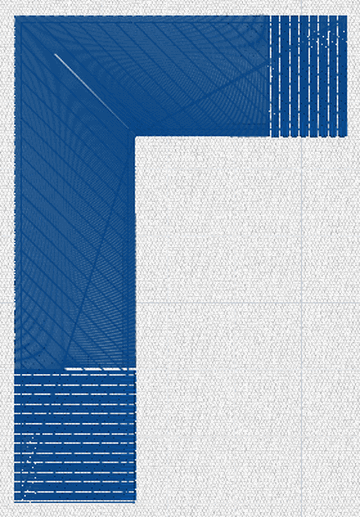
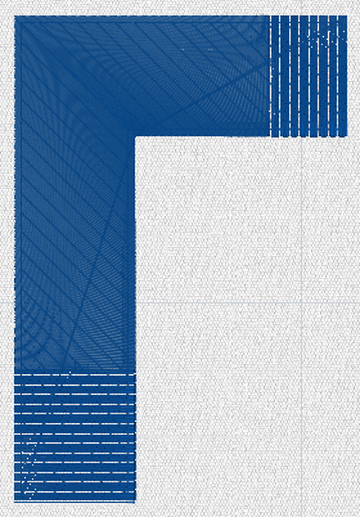
Angle-line rows reach the next line evenly on the inside of a bend (#890) (#898)
* Angle-line rows reach the next line evenly on the inside of a bend (#890)

A band's row count is rounded up to a multiple of the coarsest thinning its
shorter side needs, so the kept rows end on the next chord as evenly as they
leave the last one. An odd count left the last kept row three steps short of
the corner diagonal on the kit L, a thin streak along it.

Design test: the kit L at its set density has no thin 1 mm cell, even gaps
across both arms, and no gap over twice the median across the corner chord.
fills/angle-lines.pes regenerated (4,583 -> 4,631 stitches, 1 trim).

* Angle-lines preview rendered with the fixed app (#890)

The kit renders previews with the openstitch app, which was stale when the
PES was regenerated; the corner diagonal is gone from the new preview.

---------

diff --git a/crates/openstitch-design/src/stitch_type_tests.rs b/crates/openstitch-design/src/stitch_type_tests.rs
@@ -4840,3 +4840,132 @@ fn tartan_rows_lie_in_their_colours_stripes_and_share_out_every_row() {
             .contains("tartan")
     );
 }
+
+/// The kit's L (#890): 7..57 × 7..80 mm with lines across its top arm, its corner and its foot.
+fn kit_l() -> (Vec<Contour>, Vec<[Vec2; 2]>) {
+    let p = |x: f64, y: f64| v2(x * 10.0, y * 10.0);
+    let c = vec![Contour::new(
+        vec![
+            p(7.0, 7.0),
+            p(57.0, 7.0),
+            p(57.0, 25.0),
+            p(25.0, 25.0),
+            p(25.0, 80.0),
+            p(7.0, 80.0),
+        ],
+        true,
+    )];
+    let lines = vec![
+        [p(45.0, 5.0), p(45.0, 27.0)],
+        [p(27.0, 27.0), p(5.0, 5.0)],
+        [p(5.0, 60.0), p(27.0, 60.0)],
+    ];
+    (c, lines)
+}
+
+/// The 1 mm cells (a cell or more inside the outline) whose top stitching is thinner than half
+/// what rows `spacing` apart lay there, by the length of stitching in each cell.
+fn thin_cells(c: &[Contour], top: &[Run], spacing: f64) -> Vec<(i64, i64)> {
+    let mut ink: std::collections::HashMap<(i64, i64), f64> = Default::default();
+    for run in top {
+        for w in run.windows(2) {
+            let n = (w[0].distance(w[1]) / 0.5).ceil().max(1.0) as usize;
+            for i in 0..n {
+                let q = w[0].lerp(w[1], (i as f64 + 0.5) / n as f64);
+                *ink.entry(((q.x / 10.0).floor() as i64, (q.y / 10.0).floor() as i64))
+                    .or_default() += w[0].distance(w[1]) / n as f64;
+            }
+        }
+    }
+    let b =
+        crate::geometry::Rect::enclosing(c.iter().flat_map(Contour::outline_points)).expect("b");
+    let edges: Vec<(Vec2, Vec2)> = c.iter().flat_map(Contour::edges).collect();
+    let mut thin = Vec::new();
+    for j in (b.min_y / 10.0).floor() as i64..(b.max_y / 10.0).ceil() as i64 {
+        for i in (b.min_x / 10.0).floor() as i64..(b.max_x / 10.0).ceil() as i64 {
+            let m = v2(i as f64 * 10.0 + 5.0, j as f64 * 10.0 + 5.0);
+            let clear = edges
+                .iter()
+                .map(|&(a, e)| segment_gap(m, m, a, e))
+                .fold(f64::MAX, f64::min);
+            if !crate::geometry::contains(m, c) || clear < 15.0 {
+                continue;
+            }
+            if ink.get(&(i, j)).copied().unwrap_or(0.0) < 0.5 * 100.0 / spacing {
+                thin.push((i, j));
+            }
+        }
+    }
+    thin
+}
+
+/// Where the top stitching of `top` crosses the probe from `a` to `b`, as distances along it.
+fn crossings_along(top: &[Run], a: Vec2, b: Vec2) -> Vec<f64> {
+    let mut at = Vec::new();
+    let d = b - a;
+    for run in top {
+        for w in run.windows(2) {
+            let e = w[1] - w[0];
+            let den = d.x * e.y - d.y * e.x;
+            if den.abs() < 1e-12 {
+                continue;
+            }
+            let q = w[0] - a;
+            let t = (q.x * e.y - q.y * e.x) / den;
+            let s = (q.x * d.y - q.y * d.x) / den;
+            if (0.0..=1.0).contains(&t) && (0.0..=1.0).contains(&s) {
+                at.push(t * d.length());
+            }
+        }
+    }
+    at.sort_by(f64::total_cmp);
+    at
+}
+
+#[test]
+fn angle_lines_cover_the_kit_l_at_the_set_density() {
+    // #890: the kit's L. Every 1 mm cell carries at least half the stitching rows `spacing`
+    // apart lay there; past the outer lines the rows keep the lines' direction at the set
+    // spacing; and across the corner line, where the rows of both bands are thinned, no gap is
+    // over twice the usual one (an odd row count left the last kept row three steps short of
+    // the line: 3.6 mm/10 against 1.4 there).
+    let (c, lines) = kit_l();
+    let mut r = region(RegionType::Fill);
+    r.angle_lines = lines;
+    let layers = crate::region::layers(&c, &r, &[]);
+    let top = layers.last().expect("top");
+    let spacing = 10.0 / r.density;
+    let thin = thin_cells(&c, top, spacing);
+    assert!(thin.is_empty(), "{} thin 1 mm cells: {thin:?}", thin.len());
+    for (what, a, b) in [
+        ("top arm", v2(460.0, 160.0), v2(560.0, 160.0)),
+        ("foot", v2(160.0, 610.0), v2(160.0, 790.0)),
+    ] {
+        let x = crossings_along(top, a, b);
+        for w in x.windows(2) {
+            let gap = w[1] - w[0];
+            assert!(
+                (gap - spacing).abs() < 0.05 * spacing || gap < 1e-6,
+                "{what}: rows {gap:.2} apart at {:.0} (spacing {spacing:.2})",
+                w[0]
+            );
+        }
+    }
+    for k in 3..=8 {
+        // Square across the corner line, from 30 % to 80 % of the way to the inner corner.
+        let m = v2(70.0, 70.0).lerp(v2(250.0, 250.0), f64::from(k) / 10.0);
+        let x = crossings_along(top, m + v2(-40.0, 40.0), m + v2(40.0, -40.0));
+        let mut gaps: Vec<f64> = x
+            .windows(2)
+            .map(|w| w[1] - w[0])
+            .filter(|&g| g > 1e-6)
+            .collect();
+        let most = gaps.iter().copied().fold(0.0, f64::max);
+        gaps.sort_by(f64::total_cmp);
+        let median = gaps[gaps.len() / 2];
+        assert!(
+            most <= 2.0 * median,
+            "{k}: a {most:.1} gap, the median {median:.1}"
+        );
+    }
+}

diff --git a/crates/openstitch-design/src/angle_lines.rs b/crates/openstitch-design/src/angle_lines.rs
@@ -9,7 +9,9 @@
 //!   fraction t along the other, so the rows turn with the shape and stay inside it. There are
 //!   as many rows as the longer side needs at the row spacing; where the shorter side (the
 //!   inside of a bend) crowds them, rows are left out in pairs (every other one, then every
-//!   fourth…) so they stay at least 0.85 of a spacing apart.
+//!   fourth…) so they stay at least 0.85 of a spacing apart. The row count is rounded up to a
+//!   multiple of that thinning, so the kept rows reach the next chord as evenly as they leave
+//!   this one.
 //! - Before the first chord and after the last, rows run parallel to it, a spacing apart.
 //! - A shape with a hole and three or more lines (a ring) wraps from the last line to the first.
 //!
@@ -362,9 +364,24 @@ fn pieces(p: impl Fn(f64) -> Vec2, keep: impl Fn(f64) -> bool) -> Vec<Run> {
     out
 }
 
+/// How many row steps a band whose sides are `l0` and `l1` long is laid in: as many as the
+/// longer side needs at `spacing`, rounded up to a multiple of the coarsest thinning ([`kept`])
+/// its shorter side needs, so every thinning ends on the next band's first row as evenly as it
+/// starts (#890: an odd count left the last kept row three steps short of the next line where
+/// the rows were thinned to every other one, a thin streak along it).
+fn steps(l0: f64, l1: f64, spacing: f64) -> usize {
+    let n = ((l0.max(l1) / spacing).ceil() as usize).max(1);
+    let gap = l0.min(l1) / n as f64;
+    let mut step = 1usize;
+    while gap * (step as f64) < CROWDED * spacing && step * 2 <= n / 2 {
+        step *= 2;
+    }
+    n.div_ceil(step) * step
+}
+
 /// The rows between two sides: row t joins `s1.at(t)` and `s2.at(t)`.
 fn band(s1: &Side, s2: &Side, spacing: f64, last: bool) -> Vec<Run> {
-    let n = ((s1.len.max(s2.len) / spacing).ceil() as usize).max(1);
+    let n = steps(s1.len, s2.len, spacing);
     let mut out = Vec::new();
     for k in 0..n + usize::from(last) {
         let t = k as f64 / n as f64;
@@ -380,7 +397,7 @@ fn band(s1: &Side, s2: &Side, spacing: f64, last: bool) -> Vec<Run> {
 /// The rows between chords `a` and `b` by straight interpolation (ends on different outlines).
 fn straight(a: [Vec2; 2], b: [Vec2; 2], spacing: f64, last: bool) -> Vec<Run> {
     let (l0, l1) = (a[0].distance(b[0]), a[1].distance(b[1]));
-    let n = ((l0.max(l1) / spacing).ceil() as usize).max(1);
+    let n = steps(l0, l1, spacing);
     let mut out = Vec::new();
     for k in 0..n + usize::from(last) {
         let t = k as f64 / n as f64;

diff --git a/docs/FEATURE_MATRIX.md b/docs/FEATURE_MATRIX.md
@@ -299,7 +299,7 @@ PE-DESIGN reference, sew-out) is generated from the compatibility report into
 | Beyond PE-DESIGN | Maze fill (#533), region type `maze`: one closed path that never crosses itself, long straight corridors with square turns, its passes the spacing apart (default 2 mm, 1-20) and reaching to about half a spacing from the outline and the holes; the stippling walk (a seeded spanning tree of 2-spacing cells walked at half a cell, partial cells along the outline taken in by detours) with the tree biased to run straight on (`straightness`, default 70 %) and its own `mazeSeed` (default 533), sewn at the run pitch without rounding; one run per connected part, started at the point nearest the start point; Stippling's output unchanged; PES 0110 refuses it (version 6 writes the stitches); inspector Spacing, Run pitch, Straightness, Seed; kit swatch `examples/sew/fills/maze-fill.pes` | Implemented (beyond PE-DESIGN) | [research/beyond/meander-maze-and-randomisation.md](research/beyond/meander-maze-and-randomisation.md) §2; [research/competitive-features.md](research/competitive-features.md) Updates, 2026-11-05 full survey (filum (GPL-3.0); concepts only) | design `stitch_type_tests::maze_fill_*`, engine `stitch_types::maze_fill_goes_through_the_command`, app `coverage_editor::maze_fill_controls_reach_the_engine` |
 | Beyond PE-DESIGN | Meander fill (#533), region type `meander`: a meander tile chained into rows a tile height apart (shifted by its row shift), clipped to the region and its holes, the pieces sewn nearest next and joined along the outline; 12 own-drawn tiles (`vermicelli` the default, `ribbon-candy`, `ripple`, `clamshell`, `switchback`, `serpentine`, `skyline`, `staircase`, `sawtooth`, `jigsaw`, `hilbert`, `hilbert-fine`; drawn from simple maths by `tools/gen_patterns.py`, none from another product), pattern kind `meander` (one path from (0, y) to (1, y) in the unit tile; a tile that crosses or touches itself, its neighbours or the rows above and below is refused, at most 500 points), so the Programmable Stitch Creator (Meander fill (+)) and `pattern.define` make more; tile size (default 8 mm) and run pitch; PES 0110 refuses it (version 6 writes the stitches); kit swatches `examples/sew/fills/meander-tiles-1.pes` and `-2.pes` show every tile | Implemented (beyond PE-DESIGN) | [research/beyond/meander-maze-and-randomisation.md](research/beyond/meander-maze-and-randomisation.md) §3; [research/competitive-features.md](research/competitive-features.md) Updates, 2026-11-05 full survey (filum (GPL-3.0), Morale (GPL-3.0), openhoop (GPL-3.0); concepts only, Ink/Stitch's GPL tiles not used) | design `stitch_type_tests::meander_*`, engine `stitch_types::meander_fill_goes_through_the_command`, app `coverage_editor::meander_fill_controls_reach_the_engine` |
 | Region sew types | Fill Angle tool (#534), Color / Sew Type ▸ Fill Angle (PE-DESIGN's straight sewing direction set on the canvas): drag (or click twice, or the arrow keys and Space) across the selected regions in the direction their rows should run; on release every selected region that has a direction (not the centred types, contour fill or cross stitch) takes that angle with Auto direction off, in one undo step (`object.setRegion` `angle`); Shift: 15° steps; stays active, Esc leaves; `ui.run` action `fillAngleTool`; icon generated with Higgsfield | Implemented | [research/competitive-features.md](research/competitive-features.md) Updates, 2026-11-05 full survey (Roidery (Apache-2.0), openhoop (GPL-3.0), filum (GPL-3.0); concepts only) | app `editor::tools::fill_angle::tests` |
-| Beyond PE-DESIGN | Stitch angle lines (#534): `object.setAngleLines {id, lines}` (2-64 lines across a fill, in order along it, mm; `[]` or `object.setRegion angleLines: false` removes them). Each line is taken as the shape's chord through it; between consecutive chords row t joins the points at fraction t along the two outline sides between them, so a U, Z or bend turns with its shape in one object; as many rows as the longer side needs, rows left out in pairs where the inner side crowds them (never under 0.85 of a spacing); rows parallel to the first and last lines beyond them; a ring (a hole and 3 or more lines) wraps round. The plain fill's under sewing is kept. Lines crossing inside the shape, or whose middle is outside it, are refused with the reason. Inspector Angle lines (+) shows them (off removes them); PES 0110 refuses them; kit swatch `examples/sew/fills/angle-lines.pes`. On the canvas: the Angle Lines tool (Shapes ▸ Edit Outline; `ui.run` action `angleLineTool`) adds a line per drag (or two clicks, or the arrow keys and Space) to the selected fill, the first waiting for the second, one undo step each; Shift: 15° steps; icon generated with Higgsfield | Implemented (beyond PE-DESIGN) | [research/competitive-features.md](research/competitive-features.md) Updates, 2026-11-05 full survey (Roidery (Apache-2.0), openhoop (GPL-3.0), filum (GPL-3.0); concepts only) | design `stitch_type_tests::angle_lines_*`, engine `stitch_types::angle_lines_go_through_the_command`, app `coverage_editor::angle_lines_toggle_reaches_the_engine`, `editor::tools::angle_line::tests` |
+| Beyond PE-DESIGN | Stitch angle lines (#534): `object.setAngleLines {id, lines}` (2-64 lines across a fill, in order along it, mm; `[]` or `object.setRegion angleLines: false` removes them). Each line is taken as the shape's chord through it; between consecutive chords row t joins the points at fraction t along the two outline sides between them, so a U, Z or bend turns with its shape in one object; as many rows as the longer side needs, rows left out in pairs where the inner side crowds them (never under 0.85 of a spacing), each band's row count a multiple of its coarsest thinning so the kept rows reach the next line evenly (#890); rows parallel to the first and last lines beyond them; a ring (a hole and 3 or more lines) wraps round. The plain fill's under sewing is kept. Lines crossing inside the shape, or whose middle is outside it, are refused with the reason. Inspector Angle lines (+) shows them (off removes them); PES 0110 refuses them; kit swatch `examples/sew/fills/angle-lines.pes`. On the canvas: the Angle Lines tool (Shapes ▸ Edit Outline; `ui.run` action `angleLineTool`) adds a line per drag (or two clicks, or the arrow keys and Space) to the selected fill, the first waiting for the second, one undo step each; Shift: 15° steps; icon generated with Higgsfield | Implemented (beyond PE-DESIGN) | [research/competitive-features.md](research/competitive-features.md) Updates, 2026-11-05 full survey (Roidery (Apache-2.0), openhoop (GPL-3.0), filum (GPL-3.0); concepts only) | design `stitch_type_tests::angle_lines_*`, engine `stitch_types::angle_lines_go_through_the_command`, app `coverage_editor::angle_lines_toggle_reaches_the_engine`, `editor::tools::angle_line::tests` |
 | Beyond PE-DESIGN | Free text envelopes edited with on-canvas handles (bridge, pennant, perspective, diamond; symmetric bending with a modifier) (#535) | Implemented (beyond PE-DESIGN; PE defaults unchanged) | `text.setEnvelope {ids, shape: preset|bridge|pennant|perspective|diamond|none, amount, top, bottom}` (a preset becomes a free envelope with exactly its knots and level, so the stitches stay the same until a handle moves), `text.bendEnvelope {id, edge, handle, dx, dy, symmetric}` (the edge bends smoothly; symmetric mirrors the move), `text.envelopeHandles`; Text Attributes ▸ Free envelope and canvas handles (one Undo per drag, Shift mirrors); PES 0110 export refuses a free envelope (convert to outlines first); tests `a_preset_as_a_free_envelope_sews_the_same_stitches` (presets 3-26, default and set levels), `handles_bend_the_envelope_and_shift_keeps_it_symmetric`, `a_drag_becomes_one_bend_in_millimetres` | The arches (1, 2) set text on a circle and cannot become free envelopes; edges are knots with three handles each (no Bézier tangents) |
 | Beyond PE-DESIGN | Pixel-font lettering: text from a bitmap font sewn as short runs or cross stitches per pixel (#536) | Implemented (beyond PE-DESIGN) | OpenStitch Pixel (`openstitch-pixel`, own 5 × 7 design with descenders, 5-40 mm; one pixel is size / 7): `text.add` / `object.setText` `pixelStyle` run, cross or block, Text Attributes ▸ Pixels; each letter's lit pixels walked side neighbours first, every needle point inside a lit pixel, separate pixel groups trimmed apart; Text Transform and text on a path warp the pixels; test `pixel_text_sews_inside_its_pixels` ("HELLO 2026" at 2 mm per pixel, every style), `pixels_are_walked_over_lit_pixels_only` | Sewn from the text's region colour (or its line colour) |
 | Beyond PE-DESIGN | Tatami textures: named needle-hole arrangements, steps x repetitions and wave/triangle/arc row shifts on plain fills (#537). `object.setRegion {texture}` takes 14 named textures (`smooth` is PE-DESIGN's Frequency brick; ribs, brick, diagonal, steepDiagonal, steps, stairs, blocks, scattered, waves, ripples, zigzag, chevron, scallops are OpenStitch's), or `stagger: steps` (`staggerSteps` offsets held `staggerRepeat` rows each) and `stagger: wave\|triangle\|arc` (`staggerAmplitude` % of a stitch over `staggerPeriod` rows). Inspector: Texture picker plus the settings of the chosen stagger (custom when they match no texture). Kit swatches `examples/sew/fills/tatami-textures-1/-2.pes` | Implemented (beyond PE-DESIGN) | design `tatami_textures_shift_the_needle_grid_by_steps_and_curves` (period n × repeat; curves within 0.05 mm), `named_tatami_textures_keep_the_stitch_count_and_stay_off_by_default` (every texture within ±3 % of plain tatami, distinct, saved and loaded); engine `tatami_textures_go_through_the_command` (undo, help), bad options; app `fill_texture_choices_reach_the_engine`; concepts from openhoop (GPL-3.0) and stitch_generator (MIT), no code | NV880E sew-out of the kit swatches; textures on programmable-fill base sewing and satin splits |

diff --git a/docs/ROADMAP.md b/docs/ROADMAP.md
@@ -198,6 +198,10 @@ Done 2026-11-08 (`batch:fills-2`, #677): push compensation on straight-row fills
 (`pushCompensation`, the sides along the rows move in) and a second under sewing layer on fill and
 satin regions (`underlay2` with an `angle` from the fill angle, crossed tatami by default).
 
+Done 2026-11-11 (`batch:fills-2`, #890): angle-line rows thinned on the inside of a bend now reach the
+next line as evenly as they leave the last one. Before, a band with an odd row count left a thin
+streak along the line near the inner corner.
+
 Done 2026-11-08 (`batch:fills-2`, #534 part 1): the Fill Angle tool (Color / Sew Type): drag across
 the selected regions to turn their rows, PE-DESIGN's sewing-direction gesture. The stitch angle
 lines of #534 follow.

diff --git a/examples/sew/README.md b/examples/sew/README.md
@@ -429,7 +429,7 @@ Threads, in sewing order: 405 Blue, 001 White, 800 Red, 208 Orange, 205 Yellow, 
 
 #### Stitch angle lines (beyond PE-DESIGN)
 
-[`fills/angle-lines.pes`](fills/angle-lines.pes) · 100 × 100 mm hoop · 49.8 × 72.8 mm · 4,583 stitches · 1 trim · about 5.8 min
+[`fills/angle-lines.pes`](fills/angle-lines.pes) · 100 × 100 mm hoop · 49.8 × 72.8 mm · 4,631 stitches · 1 trim · about 5.8 min
 
 An L whose rows turn round its corner between three angle lines, as one object with no seam.
 
